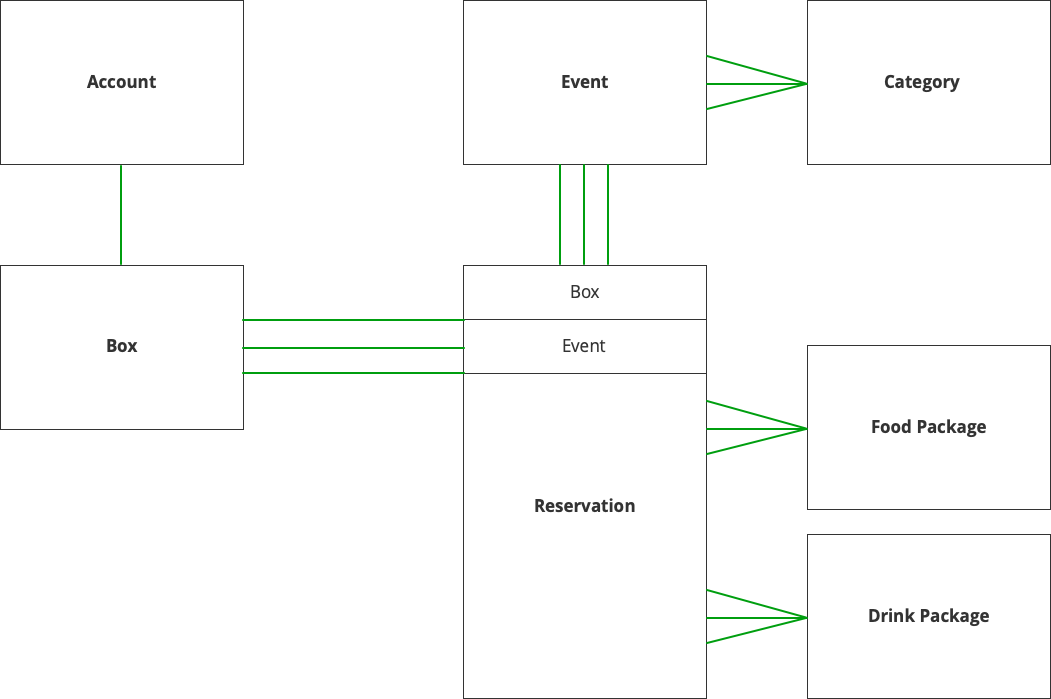
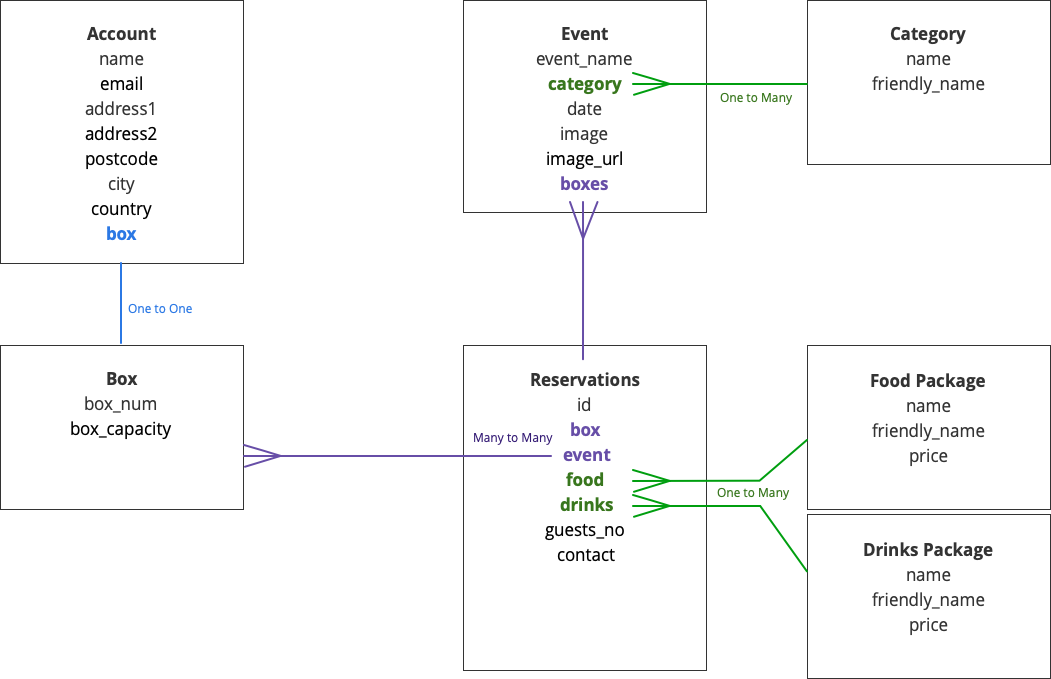
Colour palette updated and all auth installed

diff --git a/README.md b/README.md
@@ -71,23 +71,26 @@
  
  </div>
 
+ <div align="center">
+
+<img src="wireframes/detail.png" alt="detail view"/>
+ 
+ </div>
+
 ### Design Notes <a name="design"></a>
+#### Typography
++ The fonts chosen for this project are <b>"Lobster Two,"</b> <b>"Open Sans"</b> and <b>"EB Garamond."</b> from google fonts
++ Lobster Two is a cursive display font used in this project for the logo and top level headings. It's ligatures that connect individual characters give it the elegance of script but  
++ Any quoted data such as the searched input returned in the 'no results found' message is written in EB Garamond italic. This serif font is traditional and elegant and compliments Patua One.
 <div align="center">
 
-<img src="wireframes/color_palette.png" alt="colors"/>
+<img src="wireframes/colourpalette.png" alt="colors"/>
+<img src="wireframes/colourpalette2nd.png" alt="colors"/>
  
  </div>
 
 ## Information Architecture <a name="models"></a>
 ### Models
-
-<div align="center">
-
-<img src="wireframes/schema_v2.png" alt="schemav2"/>
-<p>&nbsp;</p>
-<img src="wireframes/schema.png" alt="schema"/>
- 
- </div>
 
 ***
 
@@ -97,27 +100,27 @@
 
 <p>&nbsp;</p>
 
-#### Box
+#### Suite
 
-| Name          | Key in db     | Field Type   | Validation                |
+| Name          | Key in db     | Field Type   | Options                   |
 |:--------------|:--------------|:-------------|:--------------------------|
-| Box Number    | box_num       | IntegerField |                           |
-| Box Capacity  | box_capacity  | IntegerField | max_value=24, blank=True  |
+| Suite Number  | suite_no      | IntegerField | primary_key=True          |
+| Capacity      | capacity      | IntegerField | max_value=24, blank=True  |
 
 <p>&nbsp;</p>
 
 #### Account
 
-| Name        | Key in db   | Field Type         | Validation                 |
-|:------------|:------------|:-------------------|:---------------------------|
-| Box         | box         | OneToOneField(Box) |                            |
-| Name        | name        | CharField          | max_length=75              |
-| Email       | email       | EmailField         | max_length=75              |
-| Address 1   | address1    | CharField          | max_length=75              |
-| Address 2   | address2    | CharField          | max_length=500, blank=True |
-| Postcode    | postcode    | CharField          | max_length=75              |
-| City        | city        | CharField          | max_length=75              |
-| Country     | country     | CharField          | max_length=75              |
+| Name        | Key in db   | Field Type           | Options                    |
+|:------------|:------------|:---------------------|:---------------------------|
+| Suite       | suite       | OneToOneField(Suite) |                            |
+| Name        | name        | CharField            | max_length=75              |
+| Email       | email       | EmailField           | max_length=75              |
+| Address 1   | address1    | CharField            | max_length=75              |
+| Address 2   | address2    | CharField            | max_length=500, blank=True |
+| Postcode    | postcode    | CharField            | max_length=75              |
+| City        | city        | CharField            | max_length=75              |
+| Country     | country     | CharField            | max_length=75              |
 
 <p>&nbsp;</p>
 
@@ -140,15 +143,15 @@
 
 #### Event
 
-| Name        | Key in db   | Field Type                                   | Validation                 |
-|:------------|:------------|:---------------------------------------------|:---------------------------|
-| Name        | event_name  | CharField                                    | max_length=75              |
-| Date        | date        | DateTimeField                                |                            |
-| Category    | event_type  | ForeignKey(Category)                         | on_delete=""               |
-| Description | description | TextField                                    | max_length=500, blank=True |
-| Image_url   | image_url   | UrlField                                     | blank=True                 |
-| Image       | image       | ImageField                                   | blank=True                 |
-| Boxes       | boxes       | ManyToManyField(Box, through='Reservations') | blank=True                 |
+| Name        | Key in db   | Field Type                                     | Validation                 |
+|:------------|:------------|:-----------------------------------------------|:---------------------------|
+| Name        | event_name  | CharField                                      | max_length=75              |
+| Date        | date        | DateTimeField                                  |                            |
+| Category    | event_type  | ForeignKey(Category)                           | on_delete=""               |
+| Description | description | TextField                                      | max_length=500, blank=True |
+| Image_url   | image_url   | UrlField                                       | blank=True                 |
+| Image       | image       | ImageField                                     | blank=True                 |
+| Suites      | suites      | ManyToManyField(Suite, through='Reservations') | blank=True                 |
 
 <p>&nbsp;</p>
 
@@ -185,13 +188,21 @@
 
 | Name           | Key in db     | Field Type         | Validation                 |
 |:---------------|:--------------|:-------------------|:---------------------------|
-| Box            | box           | ForeignKey(Box)    | max_length=75              |
+| Suite          | suite         | ForeignKey(Suite)  | max_length=75              |
 | Event          | event         | ForeignKey(Event)  |                            |
 | Guests         | guests_no     | IntegerField       |                            |
 | Food Package   | food_package  | ForeignKey(Food)   | max_length=500, blank=True |
 | Drinks Package | drink_package | ForeignKey(Drinks) | blank=True                 |
 
 
+<p>&nbsp;</p>
 
+***
 
 <p>&nbsp;</p>
+
+<div align="center">
+
+<img src="wireframes/schema.png" alt="schema"/>
+ 
+ </div>
